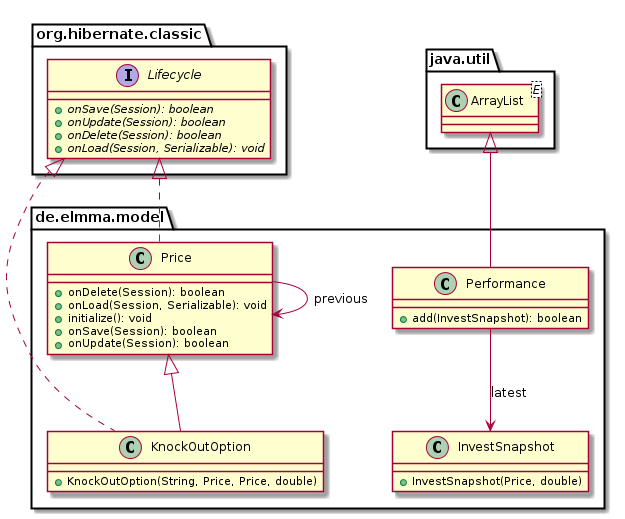
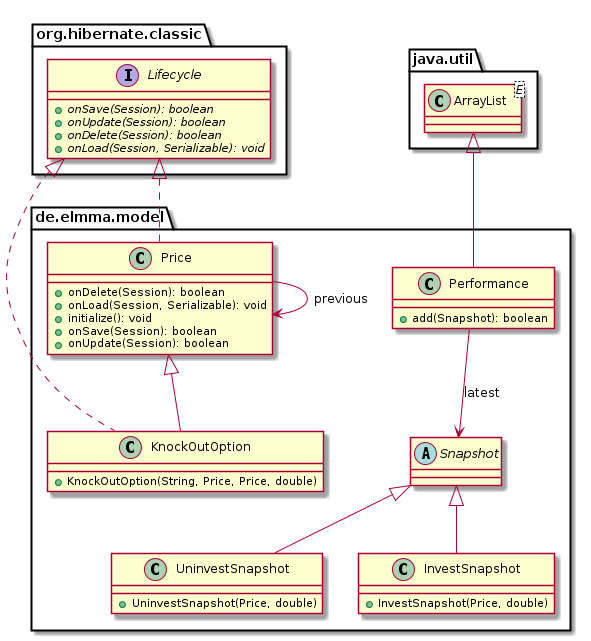
implement easy strategy

diff --git a/elmma/elmma-core/src/main/java/de/elmma/strategies/TSS.java b/elmma/elmma-core/src/main/java/de/elmma/strategies/TSS.java
@@ -4,32 +4,43 @@ import de.elmma.model.ElmmaModelFactory;
 import de.elmma.model.InvestSnapshot;
 import de.elmma.model.KnockOutOption;
 import de.elmma.model.Price;
+import de.elmma.model.Snapshot;
+import de.elmma.model.UninvestSnapshot;
 
 public class TSS extends Strategy {
 
 	@Override
-	void onUpdate(Price update) {
-		if (getLastInvestValue() < 0) {
-			return;
-		}
-		if (getPerformance().isEmpty()) {
-			addInitial(update);
+	Snapshot onUpdate(Price update) {
+		Snapshot snapshot;
+		if (!getPerformance().isEmpty() && getPriceHistory().isAboveAverage(5)) {
+			if (getPerformance().getLatest() instanceof UninvestSnapshot) {
+				snapshot = addInitial(update);
+			} else {
+				snapshot = proceed(update);
+			}
 		} else {
-			proceed(update);
+			snapshot = interruptInvest(update);
 		}
+		return snapshot;
 	}
 
-	private void proceed(Price update) {
-		InvestSnapshot latestSnapshot = getPerformance().getLatest();
+	private Snapshot interruptInvest(Price price) {
+		UninvestSnapshot snapshot = ElmmaModelFactory.newUninvestSnapshot(price, getInvest());
+		return snapshot;
+	}
+
+	private Snapshot proceed(Price update) {
+		InvestSnapshot latestSnapshot = (InvestSnapshot) getPerformance().getLatest();
 		KnockOutOption latestOption = (KnockOutOption) latestSnapshot.getPrice();
 		KnockOutOption newOptionInstance = ElmmaModelFactory.nextKnockOutOption(latestOption, update);
-		InvestSnapshot newSnapshot = ElmmaModelFactory.newInvestSnapshot(newOptionInstance, latestSnapshot.getCount());
-		getPerformance().add(newSnapshot);
+		Snapshot newSnapshot = ElmmaModelFactory.newInvestSnapshot(newOptionInstance, latestSnapshot.getCount());
+		return newSnapshot;
 	}
 
-	private void addInitial(Price update) {
+	private Snapshot addInitial(Price update) {
 		KnockOutOption option = ElmmaModelFactory.newKnockOutOption("WKN123456", update, 55, 1000 * 60 * 60, 1 / 100d);
-		InvestSnapshot snapshot = ElmmaModelFactory.newInvestSnapshot(option, (int) (getInvest() / option.getPrice()));
-		getPerformance().add(snapshot);
+		Snapshot snapshot = ElmmaModelFactory.newInvestSnapshot(option,
+				(int) (getPerformance().getLatest().getValue() / option.getPrice()));
+		return snapshot;
 	}
 }

diff --git a/elmma/elmma-core/src/main/java/de/elmma/strategies/Strategy.java b/elmma/elmma-core/src/main/java/de/elmma/strategies/Strategy.java
@@ -1,9 +1,14 @@
 package de.elmma.strategies;
 
+import java.util.ArrayList;
+
 import de.elmma.model.ElmmaModelFactory;
 import de.elmma.model.Performance;
 import de.elmma.model.Price;
+import de.elmma.model.Snapshot;
+import lombok.AccessLevel;
 import lombok.Data;
+import lombok.Getter;
 
 /**
  * Eine abstrakte Strategie. Es kann beliebig viele geben.
@@ -13,19 +18,54 @@ public abstract class Strategy {
 	/**
 	 * Anfangsinvesat
 	 */
+	@Getter(AccessLevel.NONE)
 	private double invest;
 
 	/**
 	 * Verlauf entlang des der vorliegenden Kursdaten
 	 */
 	private Performance performance = ElmmaModelFactory.newPerformance();
+	private PriceHistory priceHistory = new PriceHistory();
 
 	/**
 	 * Was passiert, wenn ein neuer Preis verfügbar ist.
+	 * 
+	 * @return
 	 */
-	abstract void onUpdate(Price update);
+	abstract Snapshot onUpdate(Price update);
+
+	public double getInvest() {
+		return performance.isEmpty() ? invest : performance.getLatest().getValue();
+	}
+
+	void nextValue(Price price) {
+		priceHistory.add(price.getPrice());
+		if (getInvest() >= 0) {
+			Snapshot snapshot = onUpdate(price);
+			getPerformance().add(snapshot);
+		}
+	}
 
 	double getLastInvestValue() {
 		return getPerformance().isEmpty() ? 0 : getPerformance().getLatest().getValue();
+	}
+
+	class PriceHistory extends ArrayList<Double> {
+		double getAverage(int until) {
+			until = getMin(until);
+			return subList(lastIndex() - until, size()).stream().mapToDouble(i -> (double) i).average().getAsDouble();
+		}
+
+		private int lastIndex() {
+			return size() - 1;
+		}
+
+		private int getMin(int until) {
+			return until < lastIndex() ? until : lastIndex();
+		}
+
+		boolean isAboveAverage(int until) {
+			return get(lastIndex() - getMin(until)) > getAverage(until);
+		}
 	}
 }

diff --git a/elmma/elmma-model/src/main/java/de/elmma/model/Performance.java b/elmma/elmma-model/src/main/java/de/elmma/model/Performance.java
@@ -8,9 +8,9 @@ import lombok.NoArgsConstructor;
 
 @Data
 @NoArgsConstructor
-public class Performance extends ArrayList<InvestSnapshot> {
+public class Performance extends ArrayList<Snapshot> {
 	@Override
-	public boolean add(InvestSnapshot e) {
+	public boolean add(Snapshot e) {
 		double change = 0;
 		if (!this.isEmpty()) {
 			change = (e.getValue() - this.get(0).getValue()) / this.get(0).getValue();
@@ -19,7 +19,7 @@ public class Performance extends ArrayList<InvestSnapshot> {
 		return super.add(e);
 	}
 
-	public InvestSnapshot getLatest() {
+	public Snapshot getLatest() {
 		return this.size() == 0 ? null : get(this.size() - 1);
 	}
 }

diff --git a/elmma/elmma-core/src/main/java/de/elmma/model/ElmmaModelFactory.java b/elmma/elmma-core/src/main/java/de/elmma/model/ElmmaModelFactory.java
@@ -22,11 +22,15 @@ public class ElmmaModelFactory {
 		return new Price(underlying, datetime, price);
 	}
 
-	public static InvestSnapshot newInvestSnapshot(KnockOutOption newOptionInstance, double count) {
+	public static Snapshot newInvestSnapshot(KnockOutOption newOptionInstance, double count) {
 		return new InvestSnapshot(newOptionInstance, count);
 	}
 
 	public static Performance newPerformance() {
 		return new Performance();
+	}
+
+	public static UninvestSnapshot newUninvestSnapshot(Price price, double value) {
+		return new UninvestSnapshot(price, value);
 	}
 }

diff --git a/elmma/elmma-model/src/main/java/de/elmma/model/InvestSnapshot.java b/elmma/elmma-model/src/main/java/de/elmma/model/InvestSnapshot.java
@@ -3,16 +3,16 @@ package de.elmma.model;
 import lombok.Data;
 
 @Data
-public class InvestSnapshot {
+public class InvestSnapshot extends Snapshot {
 
 	Price price;
-	double value;
 	double count;
-	double changeRatio;
 
 	public InvestSnapshot(Price price, double count) {
 		this.price = price;
 		this.count = count;
-		this.value = price.getPrice() * count;
+		if (price != null) {
+			this.value = price.getPrice() * count;
+		}
 	}
 }

diff --git a/elmma/elmma-core/src/main/java/de/elmma/strategies/StrategyOperator.java b/elmma/elmma-core/src/main/java/de/elmma/strategies/StrategyOperator.java
@@ -28,7 +28,7 @@ public class StrategyOperator {
 		Strategy strategy = Arrays.stream(strategies).filter(s -> s.getSimpleName().equals(strategyName)).iterator()
 				.next().newInstance();
 		strategy.setInvest(invest);
-		PriceDAO.getPrices(from, to).forEach(p -> strategy.onUpdate(p));
+		PriceDAO.getPrices(from, to).forEach(p -> strategy.nextValue(p));
 		return strategy.getPerformance();
 	}
 }

diff --git a/elmma/elmma-model/src/main/java/de/elmma/model/UninvestSnapshot.java b/elmma/elmma-model/src/main/java/de/elmma/model/UninvestSnapshot.java
@@ -1,0 +1,14 @@
+package de.elmma.model;
+
+import lombok.Data;
+
+@Data
+public class UninvestSnapshot extends Snapshot {
+
+	Price price;
+
+	public UninvestSnapshot(Price price, double value) {
+		this.price = price;
+		this.value = value;
+	}
+}

diff --git a/elmma/elmma-model/src/main/java/de/elmma/model/Snapshot.java b/elmma/elmma-model/src/main/java/de/elmma/model/Snapshot.java
@@ -1,0 +1,10 @@
+package de.elmma.model;
+
+import lombok.Data;
+
+@Data
+public abstract class Snapshot {
+	String kindOf = this.getClass().getSimpleName();
+	double value;
+	double changeRatio;
+}
